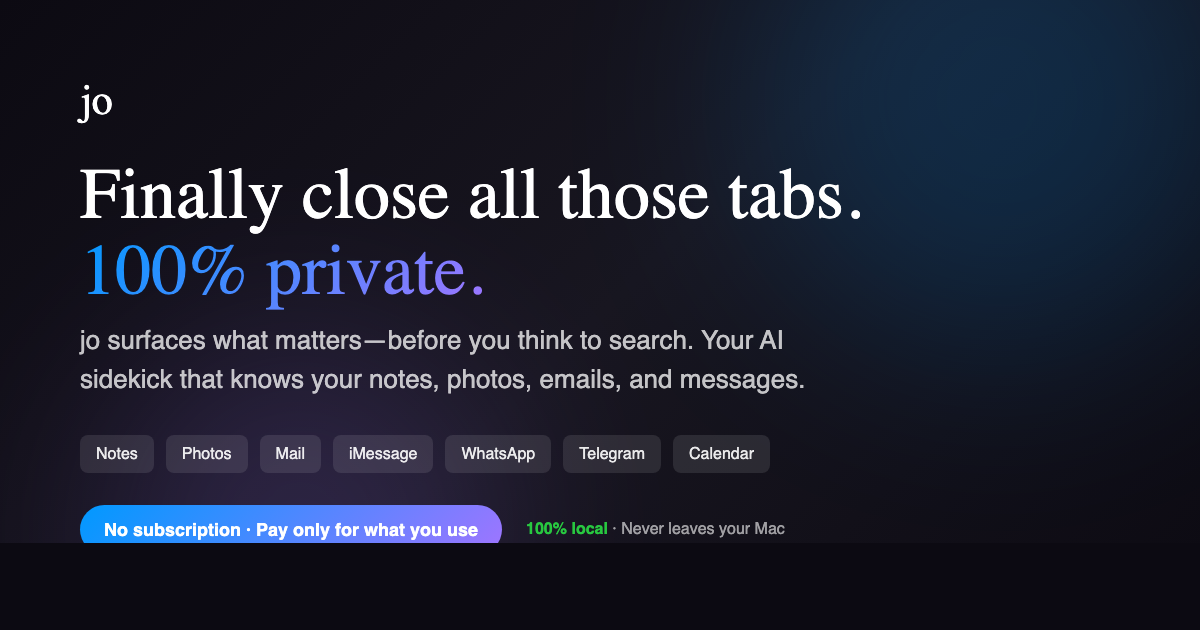
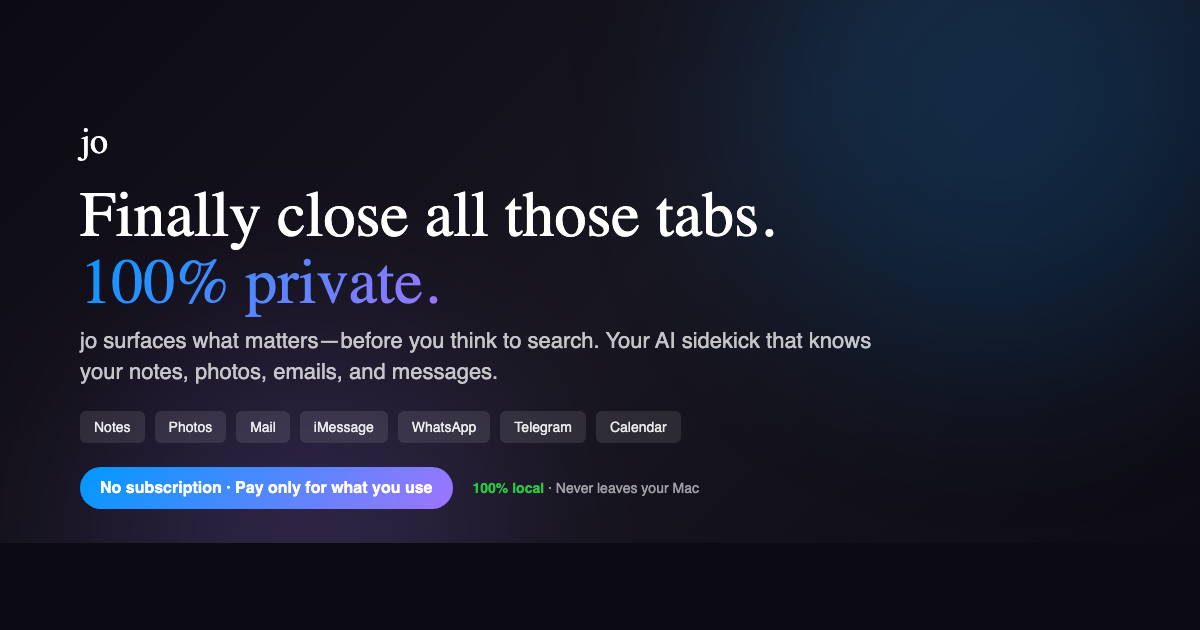
Fix OG image layout - reduce sizes to fit 1200x630

Changed region(s): [[0.0617, 0.1508, 0.74, 0.6333], [0.0617, 0.6635, 0.6475, 0.8746], [0.5858, 0.6937, 0.6167, 0.754]]

diff --git a/og-image-v7.html b/og-image-v7.html
@@ -29,7 +29,7 @@
             display: flex;
             flex-direction: column;
             justify-content: center;
-            padding: 60px 80px;
+            padding: 50px 80px;
             overflow: hidden;
         }
 
@@ -64,19 +64,19 @@
 
         .logo {
             font-family: 'DM Serif Display', serif;
-            font-size: 42px;
+            font-size: 36px;
             font-weight: 400;
             color: white;
-            margin-bottom: 32px;
+            margin-bottom: 20px;
         }
 
         .headline {
             font-family: 'DM Serif Display', serif;
-            font-size: 72px;
+            font-size: 64px;
             font-weight: 400;
             color: white;
             line-height: 1.05;
-            margin-bottom: 12px;
+            margin-bottom: 10px;
         }
 
         .headline .gradient {
@@ -88,59 +88,59 @@
 
         .tagline {
             font-family: 'Outfit', sans-serif;
-            font-size: 26px;
+            font-size: 22px;
             color: rgba(255, 255, 255, 0.75);
-            line-height: 1.5;
-            margin-bottom: 36px;
+            line-height: 1.4;
+            margin-bottom: 24px;
             max-width: 800px;
         }
 
         .app-badges {
             display: flex;
             flex-wrap: wrap;
-            gap: 12px;
-            margin-bottom: 32px;
+            gap: 10px;
+            margin-bottom: 24px;
         }
 
         .app-badge {
             display: inline-flex;
             align-items: center;
-            gap: 8px;
-            padding: 10px 16px;
+            gap: 6px;
+            padding: 8px 14px;
             background: rgba(255, 255, 255, 0.1);
-            border-radius: 8px;
+            border-radius: 6px;
             font-family: 'Outfit', sans-serif;
-            font-size: 16px;
+            font-size: 14px;
             color: rgba(255, 255, 255, 0.9);
         }
 
         .app-badge img {
-            width: 20px;
-            height: 20px;
+            width: 18px;
+            height: 18px;
         }
 
         .cta-row {
             display: flex;
             align-items: center;
-            gap: 24px;
+            gap: 20px;
         }
 
         .cta-badge {
             display: inline-flex;
             align-items: center;
             gap: 8px;
-            padding: 14px 24px;
+            padding: 12px 20px;
             background: linear-gradient(135deg, #0099ff 0%, rgb(159, 117, 255) 100%);
             border-radius: 50px;
             font-family: 'Outfit', sans-serif;
-            font-size: 18px;
+            font-size: 16px;
             font-weight: 600;
             color: white;
         }
 
         .privacy-badge {
             font-family: 'Outfit', sans-serif;
-            font-size: 16px;
+            font-size: 14px;
             color: rgba(255, 255, 255, 0.6);
         }
 
